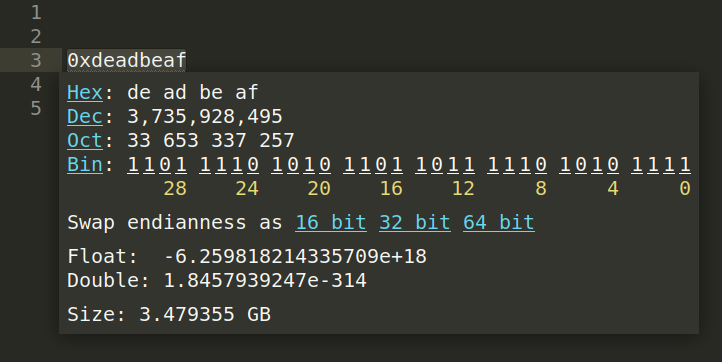
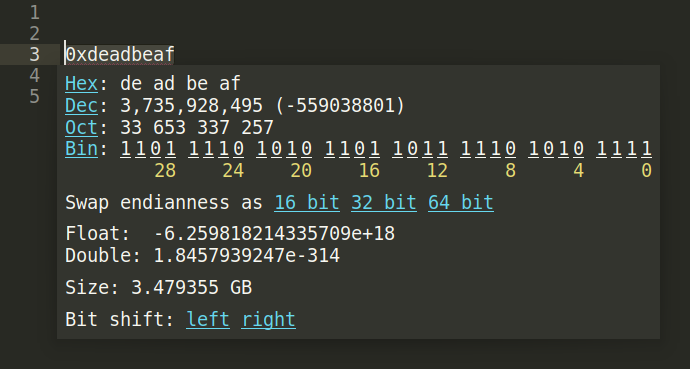
chore: bit shifting description update

Changed region(s): [[0.0913, 0.1215, 0.9739, 0.9116], [0.0304, 0.0608, 0.0609, 0.3343], [0.8217, 0.5166, 0.8522, 0.547]]

diff --git a/README.md b/README.md
@@ -30,6 +30,9 @@ Displays selected number in hex format as IEEE 754:
 
 ### Addition: interpret number as size in bytes
 
+### Addition: bit shifting
+Display buttons to shift the number left or right by one bit.
+
 ## Installation
 Clone this repository or download zip archive into the Sublime 3 package directory (you can find it in menu option `Preferences -> Browse Packages...`). **Keep in mind** that plugin folder name should be `Display numbers`.
 
